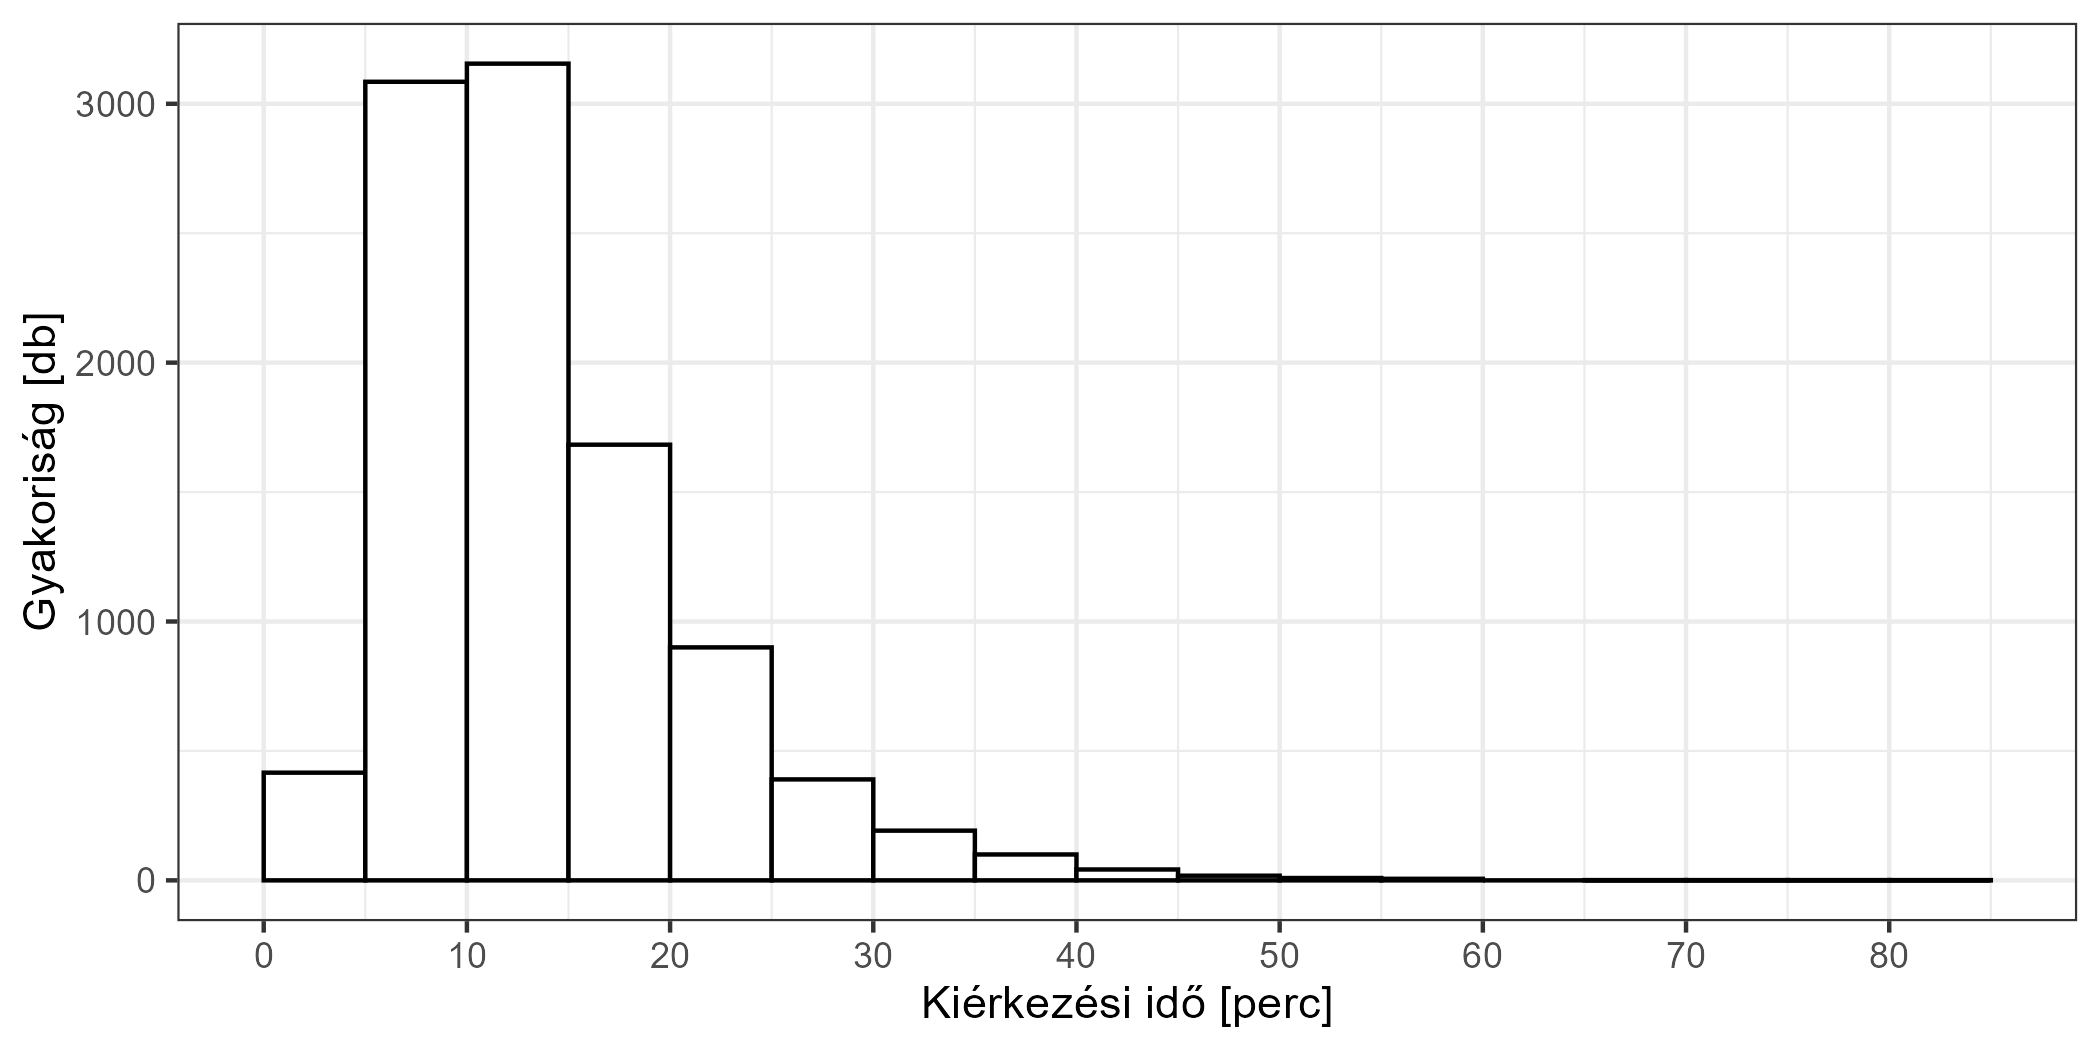
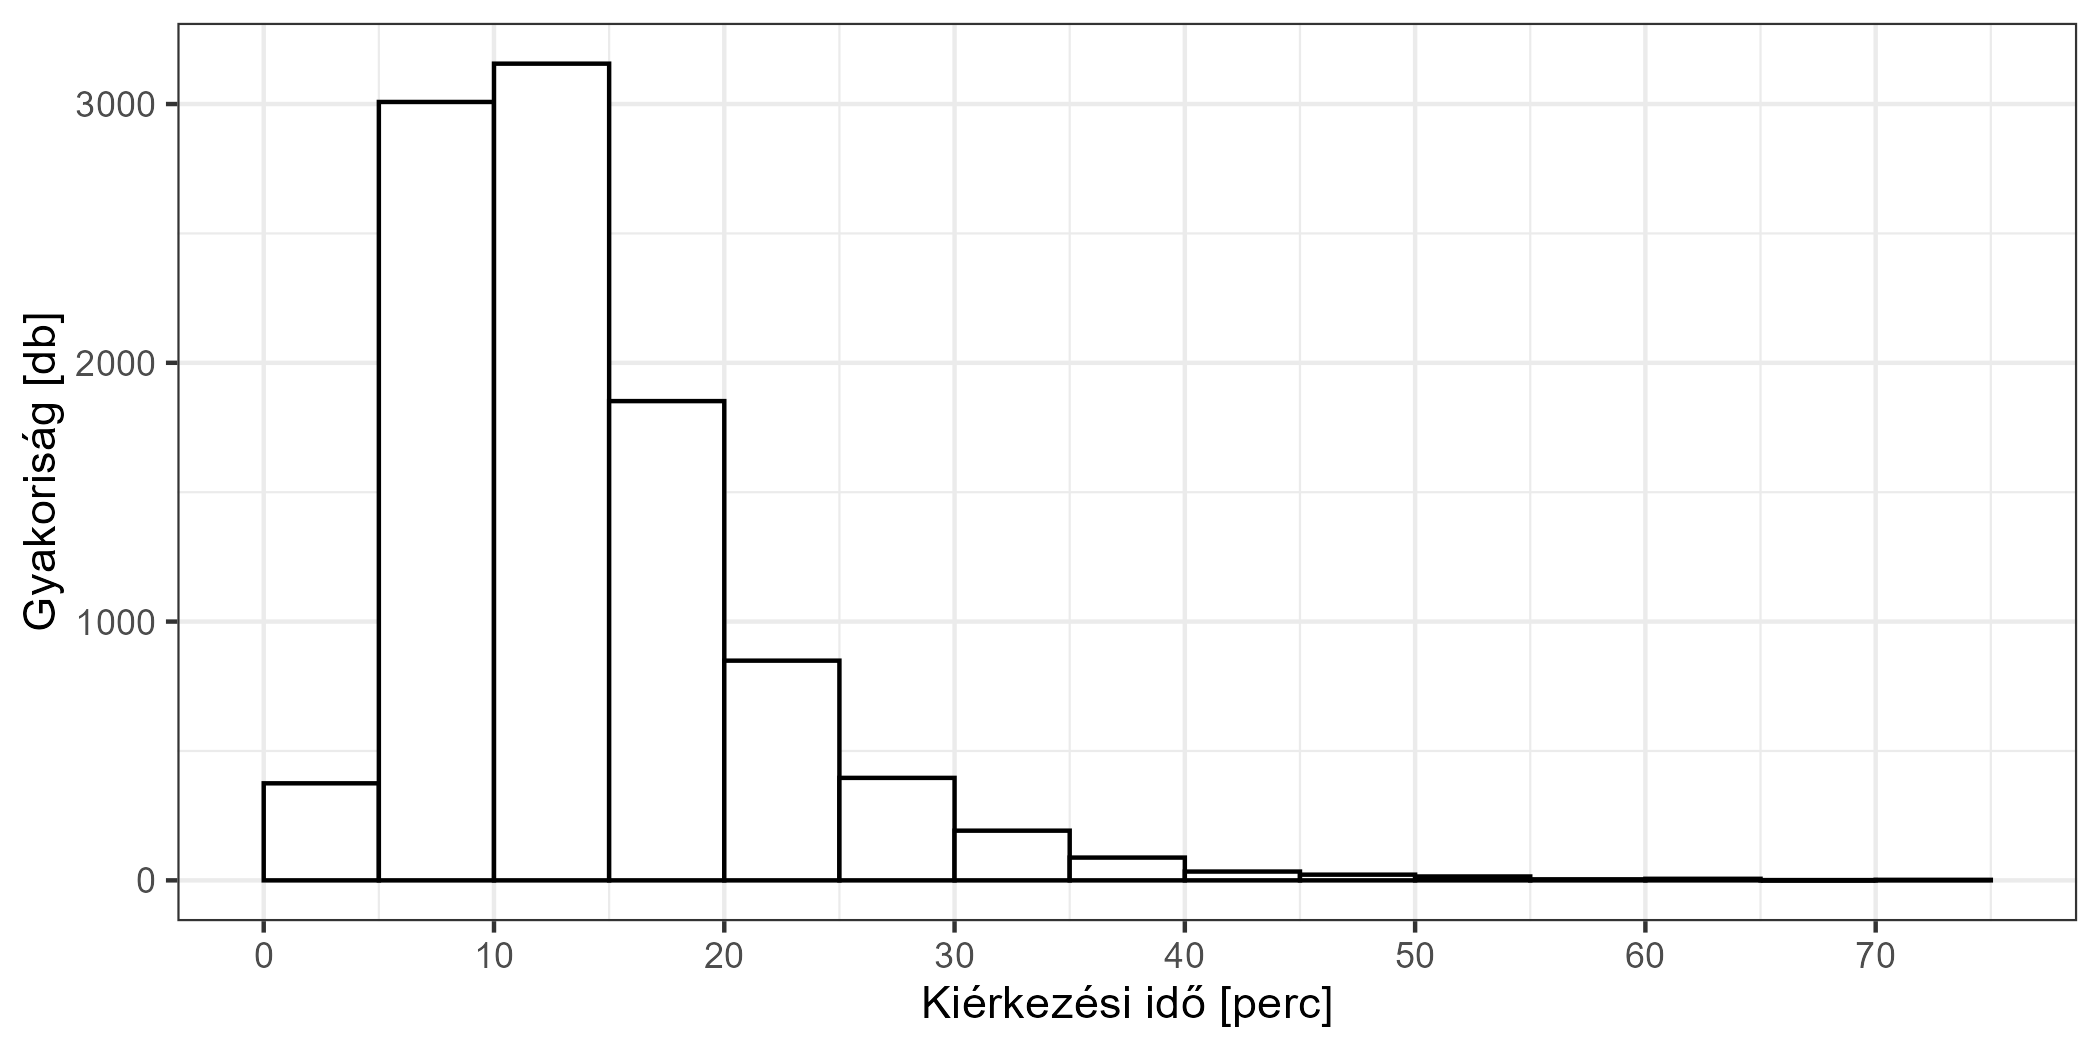
Részletes magyarázat a 15 percen belüli kiérkezések arányához.

diff --git a/README.md b/README.md
@@ -162,10 +162,10 @@ Kinézhet például így:
 
 Ez egy képzeletbeli példa (az adatokat én szimuláltam), ami azt mutatja,
 hogy 10 ezer mentőállátásból hány történt adott időablakon belül (5
-perces felbontásban). Volt 416 eset, ahol 5 percen belül kiért a mentő,
-3085 esetben 5 és 10 perc között, 3155 esetben 10 és 15 perc között, és
-így tovább. A legszerencsésebb embernek 1.9 percet kellett várnia, a
-legpechesebbnek 81.9 percet.
+perces felbontásban). Volt 375 eset, ahol 5 percen belül kiért a mentő,
+3008 esetben 5 és 10 perc között, 3156 esetben 10 és 15 perc között, és
+így tovább. A legszerencsésebb embernek 1.6 percet kellett várnia, a
+legpechesebbnek 71.5 percet.
 
 De hogyan jellemezzük a helyzetet egy, vagy legfeljebb néhány számba
 sűrítve? Hiszen, ahogy volt róla szó, nekünk valamilyen indikátor,
@@ -198,9 +198,9 @@ nem mehet a kiérkezési idő), a másik irányban viszont szabadon tud
 szóródni. A dolog végeredménye, hogy felfelé, ha nem is gyakran, de
 előfordulnak a többitől nagyobb, akár lényegesen nagyobb értékek, amit
 nem tudnak ellensúlyozni a másik irányban kilógó értékek, hiszen a
-kiérkezési idő 0 alá nem mehet. A fenti példában az átlag 13.8 perc.
+kiérkezési idő 0 alá nem mehet. A fenti példában az átlag 13.9 perc.
 Közepes érték ez? Ez nem igazán jó kérdés, mert hát mi az, hogy
-„közepes”, de az mindenesetre elmondható, hogy az esetek 60.3%-a kisebb
+„közepes”, de az mindenesetre elmondható, hogy az esetek 59.4%-a kisebb
 ennél! Sokan vitatkoznának, hogy mennyire „közepes” ez a kiérkezési idő,
 ha egyszer az esetek majdnem kétharmadában jobb a helyzet[^2]! Fontos
 hangsúlyozni, hogy nem arról van szó, hogy „elromlott” az átlag, az
@@ -218,7 +218,7 @@ Ez a gondolat vezet el minket a következő mutatóhoz, ami nem más, mint a
 feléhez értek ki (ebből fakadóan a feléhez ennél lassabban értek ki). A
 medián kiérkezési idő tehát egyszerűen a nagyság szerint sorbarendezett
 kiérkezési idők közül a középső. A fenti példában a medián kiérkezési
-idő 12.1 perc volt – ennyi időn belül értek ki az esetek feléhez, ebből
+idő 12.3 perc volt – ennyi időn belül értek ki az esetek feléhez, ebből
 fakadóan a betegek fele volt kénytelen várni ennél több időt. A mediánt
 sokkal kevésbé sújtja a kilógó értékek fent említett problémája[^3], úgy
 szokták mondani, hogy robusztus mutató. Ez igaz az adathibákra is, de
@@ -294,6 +294,33 @@ pontjából](https://www.england.nhs.uk/statistics/wp-content/uploads/sites/2/20
 ki is derül; most megint megjegyezhetném, hogy ilyet hol találunk a
 magyar mentőszolgálat honlapján…
 
+Továbbmenve, a széli viselkedés másik tipikus mutatója az, hogy milyen
+arányban ér ki a mentő adott időn, például 15 percen belül. E mutató
+tartalmának, és a percentilissel való kapcsolatának jobb megértéséhez
+érdemes az ún. eloszlásfüggvényt tekinteni: az **eloszlásfüggvény**
+megmutatja, hogy az esetek mekkora részéhez érnek ki adott időn belül.
+Ugyanazon – szimulált – adatoknak, amikből az előző ábra készült, így
+néz ki az eloszlásfüggvénye:
+
+<img src="README_files/figure-gfm/unnamed-chunk-2-1.png" width="100%" />
+
+A fenti ábrán látható mind a 90. percentilis (rövidítés: P90), mind a 15
+percen belüli kiérkezési arány (rövidítés: CDF15[^7]) számítása
+vizuálisan.
+
+Amit fontos megérteni, hogy e két mutató, bár elsőre fordított a
+logikájuk, ugyanannak az éremnek a két oldala: az is észszerű kérdés,
+hogy hány percen belül érnek ki 90%-hoz, és az is, hogy hány százalékhoz
+érnek ki 15 percen belül! Valójában tehát mindkettő ugyanúgy a széli
+viselkedést jellemzi[^8], csak más módon megközelítve a problémát, más
+szemüvegen kereszül.
+
+A két mutató között valamennyi összefüggés is van: gondoljuk végig, ha a
+90. percentilis kisebb mint 15 perc, akkor biztos, hogy a 15 percen
+belüli kiérkezések aránya nagyobb mint 90%! Ennél többet azonban nem
+tudunk mondani, például nem tudjuk kiszámolni általánosan az egyikből a
+másikat – mert ehhez ismerni kellene az eloszlás pontos alakját.
+
 ## Problémafelvetés
 
 Ezen iszonyatosan hosszúra nyúlt bevezető után elérünk a
@@ -344,7 +371,7 @@ széthúzható, ilyenekre kell gondolni. Példának okáért, van egy nevezetes
 eloszlás, a lognormális eloszlás, aminek kinézetét a következő ábra
 mutatja néhány különböző paraméter mellett:
 
-<img src="README_files/figure-gfm/unnamed-chunk-2-1.png" width="100%" />
+<img src="README_files/figure-gfm/unnamed-chunk-3-1.png" width="100%" />
 
 Az ötlet a következő: mi van akkor, ha valaki megsúgja nekünk, hogy a
 magyar kiérkezési idők lognormális eloszlást követnek? Első ránézésre
@@ -434,7 +461,7 @@ időfaktorú a kórkép (tipikusan: újraélesztés). Itt így alakult a becsül
 90. percentilis (a különböző színek a különböző becslési
 megközelítéseket mutatják, ahogy fent is szerepelt):
 
-<img src="README_files/figure-gfm/unnamed-chunk-3-1.png" width="100%" />
+<img src="README_files/figure-gfm/unnamed-chunk-4-1.png" width="100%" />
 
 A vizsgált időszak vége felé országosan 19-23 perc körül, Budapesten
 17-25 perc körül alakult a becsült 90. percentilis a Kiemelt P1
@@ -443,7 +470,7 @@ becslési módszertől).
 
 A becsült 15 percen belüli kiérkezési arány:
 
-<img src="README_files/figure-gfm/unnamed-chunk-4-1.png" width="100%" />
+<img src="README_files/figure-gfm/unnamed-chunk-5-1.png" width="100%" />
 
 A vizsgált időszak vége felé országosan 70-80% körül, Budapesten 65-80%
 körül alakult a becsült 15 percen belüli kiérkezési arány a Kiemelt P1
@@ -459,7 +486,7 @@ trauma, zajló görcsroham, végtagamputáció, súlyos égés, a legmagasabb
 időfaktorú esetek kivételével). Itt így alakult a becsült 90.
 percentilis:
 
-<img src="README_files/figure-gfm/unnamed-chunk-5-1.png" width="100%" />
+<img src="README_files/figure-gfm/unnamed-chunk-6-1.png" width="100%" />
 
 A vizsgált időszak vége felé országosan 22-27 perc körül, Budapesten
 25-30 perc körül alakult a becsült 90. percentilis a P1 prioritási
@@ -468,7 +495,7 @@ módszertől).
 
 A becsült 15 percen belüli kiérkezési arány:
 
-<img src="README_files/figure-gfm/unnamed-chunk-6-1.png" width="100%" />
+<img src="README_files/figure-gfm/unnamed-chunk-7-1.png" width="100%" />
 
 A vizsgált időszak vége felé országosan 60-70% körül, Budapesten 55-60%
 körül alakult a becsült 15 percen belüli kiérkezési arány a P1
@@ -483,7 +510,7 @@ légúti idegentest nehézlégzés nélkül, közepesfokú égés, vérhányás,
 hirtelen látás- vagy hallásvesztés). Itt így alakult a becsült 90.
 percentilis:
 
-<img src="README_files/figure-gfm/unnamed-chunk-7-1.png" width="100%" />
+<img src="README_files/figure-gfm/unnamed-chunk-8-1.png" width="100%" />
 
 A vizsgált időszak vége felé országosan 40-45 perc körül, Budapesten
 60-70 perc körül alakult a becsült 90. percentilis a P2 prioritási
@@ -492,7 +519,7 @@ módszertől).
 
 A becsült 15 percen belüli kiérkezési arány:
 
-<img src="README_files/figure-gfm/unnamed-chunk-8-1.png" width="100%" />
+<img src="README_files/figure-gfm/unnamed-chunk-9-1.png" width="100%" />
 
 A vizsgált időszak vége felé országosan 45% körül, Budapesten 20-30%
 körül alakult a becsült 15 percen belüli kiérkezési arány a P2
@@ -776,13 +803,13 @@ t.test(rgamma(1e6, 2.3, 1.45))
     ##  One Sample t-test
     ## 
     ## data:  rgamma(1e+06, 2.3, 1.45)
-    ## t = 1516, df = 1e+06, p-value < 2.2e-16
+    ## t = 1515.9, df = 1e+06, p-value < 2.2e-16
     ## alternative hypothesis: true mean is not equal to 0
     ## 95 percent confidence interval:
-    ##  1.583431 1.587531
+    ##  1.584488 1.588591
     ## sample estimates:
     ## mean of x 
-    ##  1.585481
+    ##   1.58654
 
 ``` r
 mgamma(c(2.3, 1.45))
@@ -798,13 +825,13 @@ t.test(rweibull(1e6, 1.85, 2.12))
     ##  One Sample t-test
     ## 
     ## data:  rweibull(1e+06, 1.85, 2.12)
-    ## t = 1783.7, df = 1e+06, p-value < 2.2e-16
+    ## t = 1783.4, df = 1e+06, p-value < 2.2e-16
     ## alternative hypothesis: true mean is not equal to 0
     ## 95 percent confidence interval:
-    ##  1.880364 1.884501
+    ##  1.881952 1.886093
     ## sample estimates:
     ## mean of x 
-    ##  1.882432
+    ##  1.884023
 
 ``` r
 mweibull(c(1.85, 2.12))
@@ -943,7 +970,7 @@ pairs(RawDataWide[, .(P90, P90lnorm, P90gamma, P90weibull,
       })
 ```
 
-<img src="README_files/figure-gfm/unnamed-chunk-28-1.png" width="100%" />
+<img src="README_files/figure-gfm/unnamed-chunk-29-1.png" width="100%" />
 
 Az eloszlásfüggvény-értékek:
 
@@ -956,7 +983,7 @@ pairs(RawDataWide[, .(CDF15, CDF15lnorm, CDF15gamma, CDF15weibull,
       })
 ```
 
-<img src="README_files/figure-gfm/unnamed-chunk-29-1.png" width="100%" />
+<img src="README_files/figure-gfm/unnamed-chunk-30-1.png" width="100%" />
 
 Kiváló! (Ami természetesen nem azt jelenti, hogy maguk a becslések jók,
 hiszen ez azon a problémán nem segít, hogy az eloszlást nem ismerjük, de
@@ -1191,9 +1218,27 @@ Research Part C: Emerging Technologies* 65: 97–110.
     ingadozású lesz a becslése. De ez egyáltalán nem meglepő, ha arra
     gondolunk, hogy az egyre nagyobb percentilissel egyre közelebb
     kerülünk a maximumhoz – amiről már kezdetben megmondtuk, hogy nagyon
-    ingadozó! (Voltaképp a maximum nem más, mint a 100. percentilis.)
-    Ilyen értelemben a 90. percentilis választása egyfajta
-    kompromisszum: már eléggé az eloszlás szélét jellemzi, de azért még
-    nem nagyon rossz a becsülhetősége. Egyfajta „jól becsülhető
-    majdnem-maximum”. Nem szó szerint maximum, a legszél, ebből kicsit
-    engedünk, de cserében sokkal stabilabban becsülhető.
+    ingadozó! (A maximum igazából a 100. percentilis.) Ilyen értelemben
+    a 90. percentilis választása egyfajta kompromisszum: már eléggé az
+    eloszlás szélét jellemzi, de azért még nem nagyon rossz a
+    becsülhetősége. Egyfajta „jól becsülhető majdnem-maximum”. Nem szó
+    szerint maximum, a legszél, ebből kicsit engedünk, de cserében
+    sokkal stabilabban becsülhető.
+
+[^7]: Angolul az eloszlásfüggvény neve cumulative distribution function,
+    amit általánosan CDF-fel rövidítenek.
+
+[^8]: Joggal vethető fel, hogy miért pont 15 percet nézünk – ez nem egy
+    teljesen hasraütésszerű szám? Lehetne erre azt válaszolni, hogy nem,
+    lásd a korábban emlegetett minőségi standardokat, de valójában
+    tényleg van benne önkényesség, aligha lehet megindokolni, hogy mivel
+    jobb, mintha 14 vagy 16 percet vettünk volna. De ha meggondoljuk ez
+    a percentilisre is igaz: miért pont 90. percentilist nézzük és nem a
+    89. vagy 91. percentilist? Igazából tehát ilyen szempontból nincs
+    különbség a két megközelítés között. Természetesen még
+    informatívabb, ha megadjuk nem *csak* 15 percre, hanem 14 és 16
+    percre is – nem csak a 90. percentilist közöljük, hanem a 89.-et és
+    a 91.-et is – de egyrészt ezzel elveszítjük azt, hogy egyetlen
+    számba sűrített mutatónk van, másrészt, ha továbbvisszük a
+    gondolatot, akkor végeredményben kilyukadunk oda, hogy plottoljuk ki
+    az egész eloszlásfüggvényt (vagy épp a hisztogramot).
